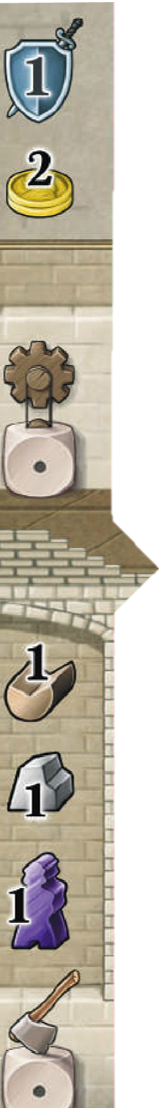
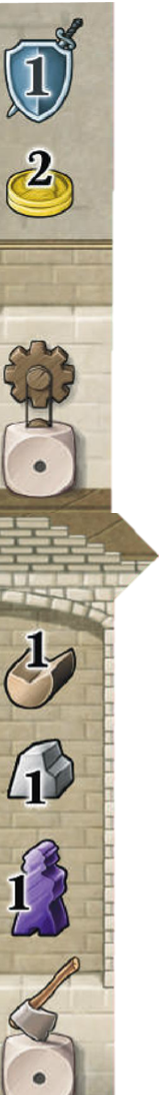
Aggiunto prolungamento sfondo

Changed region(s): [[0.0, 0.0311, 1.0, 0.9626], [0.5786, 0.6831, 0.6289, 0.8073], [0.5283, 0.6521, 0.5535, 0.6831]]

diff --git a/src/main/java/it/polimi/ingsw/ps42/view/GUI/CardContainer.java b/src/main/java/it/polimi/ingsw/ps42/view/GUI/CardContainer.java
@@ -86,7 +86,7 @@ public class CardContainer extends FunctionalLabel{
 	 * @param image					The image of the card
 	 * @param tableCardDimension	The dimension of the card on the table
 	 */
-	public CardContainer(Dimension dimension, Point location, CardZoom cardZoom, BufferedImage image, Dimension tableCardDimension ) {
+	public CardContainer(Dimension dimension, Point location, CardZoom cardZoom, BufferedImage image, BufferedImage lateralImage, Dimension tableCardDimension ) {
 		
 		super();
 		greenCard = new ArrayList<>();
@@ -101,12 +101,20 @@ public class CardContainer extends FunctionalLabel{
 		mainPane.setBounds(0, 0, (int)this.getWidth(),(int) this.getHeight());
 		this.add(mainPane);
 		
+		//Set up background images 
 		JLabel backGround = new JLabel();
 		int shift = (int) (dimension.getWidth() * 0.03);
 		backGround.setSize(new Dimension((int)(dimension.getWidth()*0.8), (int)dimension.getHeight()));
 		backGround.setLocation(shift,0);
 		backGround.setIcon(resizeImage(image, backGround.getSize()));
 		mainPane.add(backGround, -1);
+		
+		JLabel backGround2 = new JLabel();
+		backGround2.setSize(new Dimension((int)(dimension.getWidth()*0.2), (int)dimension.getHeight()));
+		backGround2.setLocation(shift + (int)(dimension.getWidth()*0.8), 0);
+		backGround2.setIcon(resizeImage(lateralImage, backGround2.getSize()));
+		mainPane.add(backGround2, -1);
+		
 		this.cardDimension = new Dimension((int)(tableCardDimension.getWidth()*1.1), (int)(tableCardDimension.getHeight()*1.1));
 		buildCardPositions(mainPane, cardDimension);
 		

diff --git a/src/main/java/it/polimi/ingsw/ps42/view/GUI/GUIView.java b/src/main/java/it/polimi/ingsw/ps42/view/GUI/GUIView.java
@@ -213,7 +213,7 @@ public class GUIView extends View implements TableInterface{
 		//Set the Cards taken container
 		Dimension containerDimension = new Dimension((int)(rightPanelDimension.getWidth()),(int) (rightPanelDimension.getHeight()-cardZoom.getHeight()));
 		Point containerLocation = new Point((int)leftPaneDimension.getWidth(), (int)cardZoom.getHeight());
-		cardContainer = new CardContainer(containerDimension, containerLocation, cardZoom, ImageIO.read(new File("Resource//Images//Others//cardContainer.jpg")), cardDimension);
+		cardContainer = new CardContainer(containerDimension, containerLocation, cardZoom, ImageIO.read(new File("Resource//Images//Others//cardContainer.jpg")),ImageIO.read(new File("Resource//Images//Others//aggiuntaContainer.png")) , cardDimension);
 		mainLayeredPane.add(cardContainer, -1);
 		
 		//Build the main Familiar positions
@@ -1253,7 +1253,7 @@ public class GUIView extends View implements TableInterface{
 	}
 
 	/**
-	 * Enable the Player to perform a new Move, if it is a retrasmission cancel the precedent
+	 * Enable the Player to perform a new Move, if it is a retransmission cancel the precedent
 	 */
 	@Override
 	protected void choosePlayerMove(ActionPrototype prototype, boolean isRetrasmission) {
